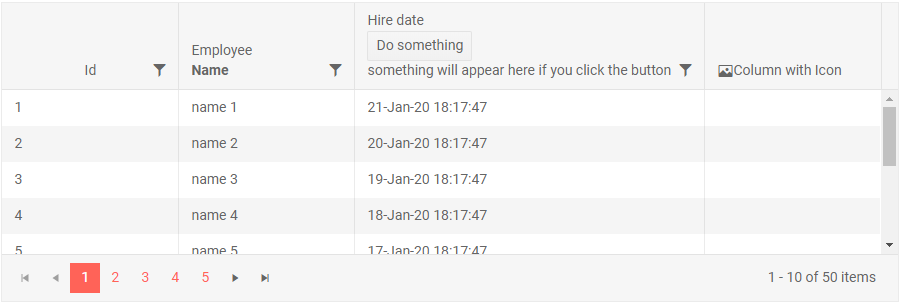
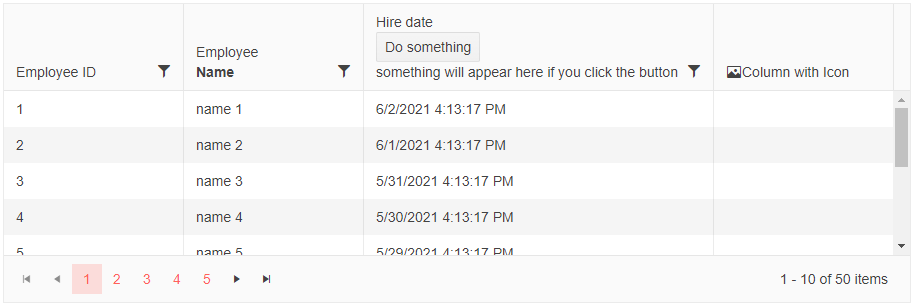
chore(grid):header template example update

diff --git a/components/grid/templates/column-header.md b/components/grid/templates/column-header.md
@@ -19,10 +19,9 @@ Bound columns render the name of the field or their `Title` in their header. Thr
 
 <TelerikGrid Data="@MyData" Height="300px" Pageable="true" Sortable="true" FilterMode="@GridFilterMode.FilterMenu">
     <GridColumns>
-        <GridColumn Field="@(nameof(SampleData.ID))" Title="This title will not be rendered">
+        <GridColumn Field="@(nameof(SampleData.Id))" Title="This title will not be rendered">
             <HeaderTemplate>
-                <div style="text-align:center">Id</div>
-                @* this is a block element and it will push the sorting indicator, see the notes below *@
+                <span>Employee ID</span>                
             </HeaderTemplate>
         </GridColumn>
         <GridColumn Field="@(nameof(SampleData.Name))">
@@ -67,14 +66,14 @@ Bound columns render the name of the field or their `Title` in their header. Thr
 
     public class SampleData
     {
-        public int ID { get; set; }
+        public int Id { get; set; }
         public string Name { get; set; }
         public DateTime HireDate { get; set; }
     }
 
     public IEnumerable<SampleData> MyData = Enumerable.Range(1, 50).Select(x => new SampleData
     {
-        ID = x,
+        Id = x,
         Name = "name " + x,
         HireDate = DateTime.Now.AddDays(-x)
     });
@@ -87,7 +86,7 @@ Bound columns render the name of the field or their `Title` in their header. Thr
 
 >note Header Templates are not available for the `GridCheckboxColumn` and the `GridCommandColumn`.
 
->note If you need to use block elements in the header templates, keep in mind that they will push the sort indicator out of its expected position. If you cannot avoid block elements (such as in the `ID` column in the example above), add a CSS rule like the ones below to adjust the sort indicator.
+>note If you need to use block elements in the header templates, keep in mind that they will push the sort indicator out of its expected position.  If you cannot avoid block elements (such as in the `ID` column in the example above), add a CSS rule like the ones below to adjust the sort indicator.
 
 >caption Sort indicator adjustments when block elements are in the header template - you may need it for theme versions prior to the year 2021
 
